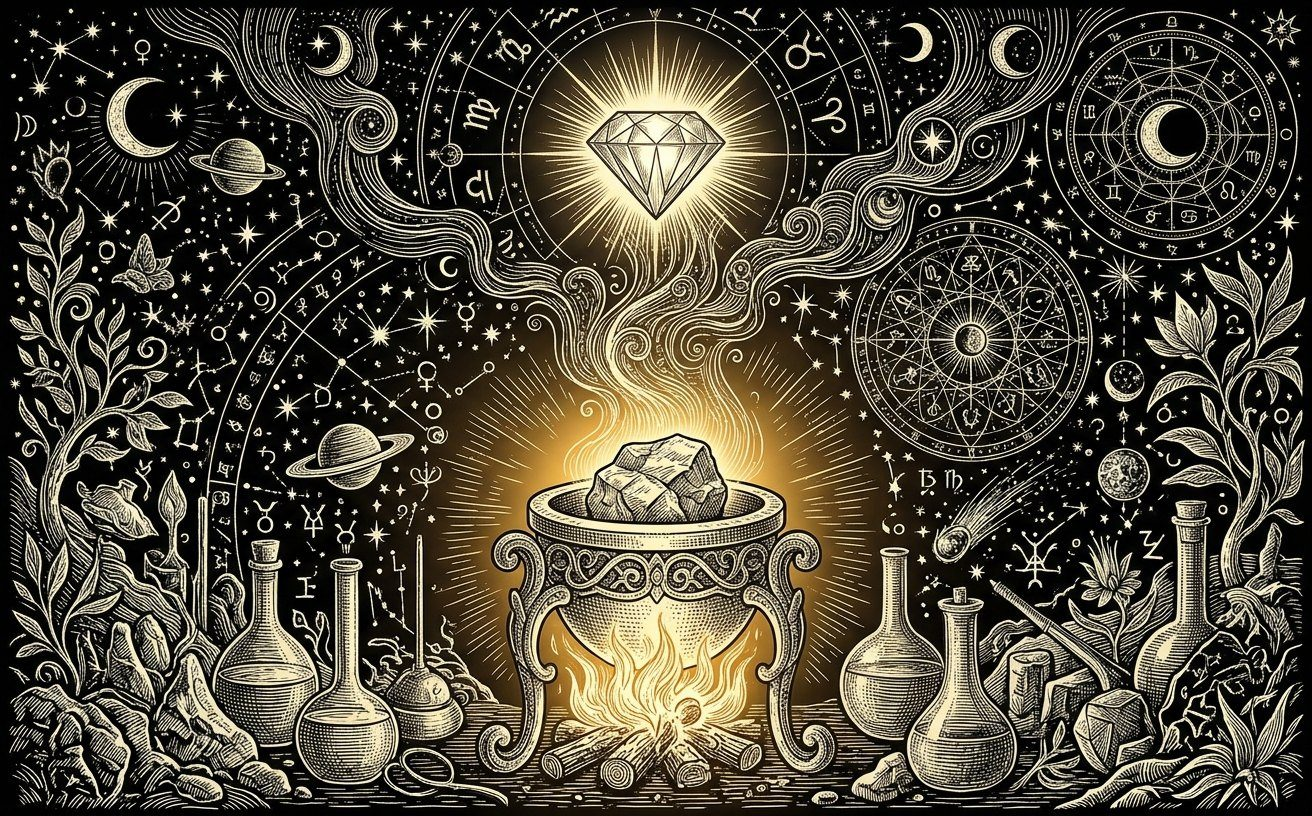
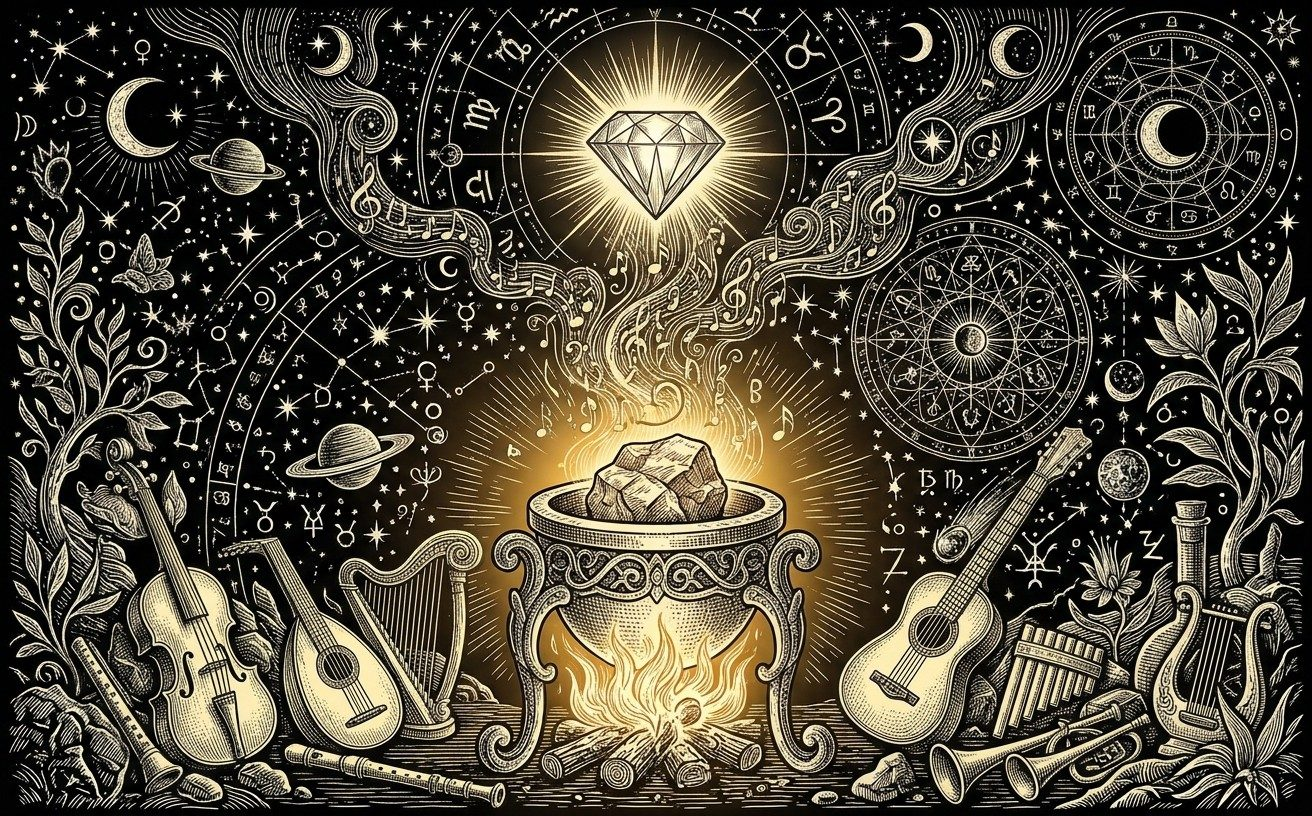
Fix menu at mid widths, new release-ready card image, shorter GK Sessions descriptions
- Mobile menu now opens between 981 and 1120px wide
- Captured moments text updated
- Stop tracking Python cache files

Claude-Session: https://claude.ai/code/session_01HCZU4BLCc4zT5G13vewitE

diff --git a/public/formulated.html b/public/formulated.html
@@ -232,7 +232,7 @@ a[data-yt]{cursor:pointer}
 <div class="bb-gview">
 <div class="bb-frame">
 <div class="bb-gstage">
-<img src="/images/gallery/studio-moment-02.jpg" alt="Studio moment 1" class="bb-gimg">
+<img src="/images/gallery/studio-moment-11.jpg" alt="Studio moment 1" class="bb-gimg">
 
 </div>
 </div>
@@ -250,72 +250,72 @@ a[data-yt]{cursor:pointer}
 <div class="bb-gthumbs" role="list">
 
 <button type="button" class="bb-gth bb-gth-on" aria-label="Show Studio moment 1" aria-current="true" role="listitem">
-<span class="bb-gthimg" style="background-image: url(/images/gallery/studio-moment-02.jpg)"></span>
+<span class="bb-gthimg" style="background-image: url(/images/gallery/studio-moment-11.jpg)"></span>
 
 </button>
 
 <button type="button" class="bb-gth" aria-label="Show Studio moment 2" aria-current="false" role="listitem">
-<span class="bb-gthimg" style="background-image: url(/images/gallery/studio-moment-01.jpg)"></span>
+<span class="bb-gthimg" style="background-image: url(/images/gallery/studio-moment-13.jpg)"></span>
 
 </button>
 
 <button type="button" class="bb-gth" aria-label="Show Studio moment 3" aria-current="false" role="listitem">
-<span class="bb-gthimg" style="background-image: url(/images/gallery/studio-moment-07.jpg)"></span>
+<span class="bb-gthimg" style="background-image: url(/images/gallery/studio-moment-16.jpg)"></span>
 
 </button>
 
 <button type="button" class="bb-gth" aria-label="Show Studio moment 4" aria-current="false" role="listitem">
-<span class="bb-gthimg" style="background-image: url(/images/gallery/studio-moment-09.jpg)"></span>
+<span class="bb-gthimg" style="background-image: url(/images/gallery/studio-moment-01.jpg)"></span>
 
 </button>
 
 <button type="button" class="bb-gth" aria-label="Show Studio moment 5" aria-current="false" role="listitem">
-<span class="bb-gthimg" style="background-image: url(/images/gallery/studio-moment-03.jpg)"></span>
+<span class="bb-gthimg" style="background-image: url(/images/gallery/studio-moment-04.jpg)"></span>
 
 </button>
 
 <button type="button" class="bb-gth" aria-label="Show Studio moment 6" aria-current="false" role="listitem">
-<span class="bb-gthimg" style="background-image: url(/images/gallery/studio-moment-14.jpg)"></span>
-
-</button>
-
-<button type="button" class="bb-gth" aria-label="Show Studio moment 7" aria-current="false" role="listitem">
-<span class="bb-gthimg" style="background-image: url(/images/gallery/studio-moment-05.jpg)"></span>
-
-</button>
-
-<button type="button" class="bb-gth" aria-label="Show Studio moment 8" aria-current="false" role="listitem">
-<span class="bb-gthimg" style="background-image: url(/images/gallery/studio-moment-06.jpg)"></span>
-
-</button>
-
-<button type="button" class="bb-gth" aria-label="Show Studio moment 9" aria-current="false" role="listitem">
 <span class="bb-gthimg" style="background-image: url(/images/gallery/studio-moment-19.jpg)"></span>
 
 </button>
 
-<button type="button" class="bb-gth" aria-label="Show Studio moment 10" aria-current="false" role="listitem">
-<span class="bb-gthimg" style="background-image: url(/images/gallery/studio-moment-15.jpg)"></span>
+<button type="button" class="bb-gth" aria-label="Show Studio moment 7" aria-current="false" role="listitem">
+<span class="bb-gthimg" style="background-image: url(/images/gallery/studio-moment-02.jpg)"></span>
 
 </button>
 
-<button type="button" class="bb-gth" aria-label="Show Studio moment 11" aria-current="false" role="listitem">
+<button type="button" class="bb-gth" aria-label="Show Studio moment 8" aria-current="false" role="listitem">
+<span class="bb-gthimg" style="background-image: url(/images/gallery/studio-moment-18.jpg)"></span>
+
+</button>
+
+<button type="button" class="bb-gth" aria-label="Show Studio moment 9" aria-current="false" role="listitem">
+<span class="bb-gthimg" style="background-image: url(/images/gallery/studio-moment-17.jpg)"></span>
+
+</button>
+
+<button type="button" class="bb-gth" aria-label="Show Studio moment 10" aria-current="false" role="listitem">
 <span class="bb-gthimg" style="background-image: url(/images/gallery/studio-moment-12.jpg)"></span>
 
 </button>
 
+<button type="button" class="bb-gth" aria-label="Show Studio moment 11" aria-current="false" role="listitem">
+<span class="bb-gthimg" style="background-image: url(/images/gallery/studio-moment-14.jpg)"></span>
+
+</button>
+
 <button type="button" class="bb-gth" aria-label="Show Studio moment 12" aria-current="false" role="listitem">
-<span class="bb-gthimg" style="background-image: url(/images/gallery/studio-moment-08.jpg)"></span>
+<span class="bb-gthimg" style="background-image: url(/images/gallery/studio-moment-09.jpg)"></span>
 
 </button>
 
 <button type="button" class="bb-gth" aria-label="Show Studio moment 13" aria-current="false" role="listitem">
-<span class="bb-gthimg" style="background-image: url(/images/gallery/studio-moment-20.jpg)"></span>
+<span class="bb-gthimg" style="background-image: url(/images/gallery/studio-moment-08.jpg)"></span>
 
 </button>
 
 <button type="button" class="bb-gth" aria-label="Show Studio moment 14" aria-current="false" role="listitem">
-<span class="bb-gthimg" style="background-image: url(/images/gallery/studio-moment-11.jpg)"></span>
+<span class="bb-gthimg" style="background-image: url(/images/gallery/studio-moment-07.jpg)"></span>
 
 </button>
 
@@ -325,27 +325,27 @@ a[data-yt]{cursor:pointer}
 </button>
 
 <button type="button" class="bb-gth" aria-label="Show Studio moment 16" aria-current="false" role="listitem">
-<span class="bb-gthimg" style="background-image: url(/images/gallery/studio-moment-18.jpg)"></span>
+<span class="bb-gthimg" style="background-image: url(/images/gallery/studio-moment-06.jpg)"></span>
 
 </button>
 
 <button type="button" class="bb-gth" aria-label="Show Studio moment 17" aria-current="false" role="listitem">
-<span class="bb-gthimg" style="background-image: url(/images/gallery/studio-moment-04.jpg)"></span>
+<span class="bb-gthimg" style="background-image: url(/images/gallery/studio-moment-15.jpg)"></span>
 
 </button>
 
 <button type="button" class="bb-gth" aria-label="Show Studio moment 18" aria-current="false" role="listitem">
-<span class="bb-gthimg" style="background-image: url(/images/gallery/studio-moment-16.jpg)"></span>
+<span class="bb-gthimg" style="background-image: url(/images/gallery/studio-moment-03.jpg)"></span>
 
 </button>
 
 <button type="button" class="bb-gth" aria-label="Show Studio moment 19" aria-current="false" role="listitem">
-<span class="bb-gthimg" style="background-image: url(/images/gallery/studio-moment-17.jpg)"></span>
+<span class="bb-gthimg" style="background-image: url(/images/gallery/studio-moment-20.jpg)"></span>
 
 </button>
 
 <button type="button" class="bb-gth" aria-label="Show Studio moment 20" aria-current="false" role="listitem">
-<span class="bb-gthimg" style="background-image: url(/images/gallery/studio-moment-13.jpg)"></span>
+<span class="bb-gthimg" style="background-image: url(/images/gallery/studio-moment-05.jpg)"></span>
 
 </button>
 
@@ -354,7 +354,7 @@ a[data-yt]{cursor:pointer}
 <div class="bb-jtext">
 <div class="bb-eye">From the studio</div>
 <h2 class="bb-h" style="font-size: 52px">captured moments</h2>
-<p class="bb-body">Action shots from studio sessions and video shoots, caught in the middle of the music. Shown in a new order on every visit.</p>
+<p class="bb-body">Action shots from studio sessions and video shoots, captured in the middle of song rehearsals, live show production and lighting design testing.</p>
 </div>
 </div>
 </div>

diff --git a/design/AIVideos.dc.html b/design/AIVideos.dc.html
@@ -42,7 +42,7 @@ a{color:#F2EDE0}a:hover{color:#FFFFFF}
 .bb-cols3{display:grid;grid-template-columns:repeat(3,minmax(0,1fr));gap:28px}
 .bb-steps{display:grid;grid-template-columns:repeat(3,minmax(0,1fr));gap:28px;counter-reset:step}
 .bb-b1:focus-visible,.bb-b2:focus-visible,.bb-menu:focus-visible,a:focus-visible{outline:2px solid #F2EDE0;outline-offset:3px}
-@media (min-width:981px){.bb-mobile{display:none}}
+@media (min-width:1121px){.bb-mobile{display:none}}
 @media (max-width:980px){.bb-navlinks{display:none}.bb-menu,.bb-menu.bb-b2{display:inline-flex}.bb-hero{grid-template-columns:minmax(0,1fr)}.bb-cols3{grid-template-columns:repeat(2,minmax(0,1fr))}.bb-steps{grid-template-columns:minmax(0,1fr)}}
 @media (max-width:560px){.bb-cols3{grid-template-columns:minmax(0,1fr)}.bb-big{font-size:60px !important}.bb-cta{display:none !important}.bb-logo{height:60px !important}}
 
@@ -213,7 +213,7 @@ class Component extends DCLogic {
   constructor(props) { super(props); this.state = { menuOpen: false, showTop: false }; if (typeof window !== 'undefined') { try { if ('scrollRestoration' in history) history.scrollRestoration = 'manual'; if (!location.hash) window.scrollTo(0, 0); } catch (e) {} } var self = this; if (typeof window !== 'undefined') { window.addEventListener('scroll', function () { var de = document.documentElement, y = window.scrollY || de.scrollTop || 0, v = y > 200 && (y + window.innerHeight) >= (de.scrollHeight - 320); if (v !== self.state.showTop) self.setState({ showTop: v }); }, { passive: true }); } }
   renderVals() {
     var self = this, s = this.state;
-    var list = [["Always", "GK Sessions", "bf798a987b7e96b681ba8edf93862b42", "https://youtu.be/Flu9zKHt-DQ", "An uplifting spiritual song about divine light, faith and grace. A robed figure and a circle of followers stand before a vast wheel of glowing sacred geometry: a vision of the eternal light behind creation.", "Alex Brodsky: vocals, guitars, keyboards, piano, synths; writing, production and mix · Glenn Korgaard: drums"], ["Day Dream", "GK Sessions", "63392bb55edd1079aa817e0d52657fb1", "https://youtu.be/drznpJstSjk", "A dreamy, meditative song about lucid daydreaming, mindfulness and expanded consciousness, drifting through a surreal dreamscape of pink clouds, a giant moon and mirror-still water.", "Alex Brodsky: vocals, guitars, keyboards, piano, synths; writing, production and mix · Glenn Korgaard: drums"], ["Move On", "GK Sessions", "4ff7ecb4a72a07639a530c8703d9024d", "https://youtu.be/w34VcjetXDQ", "An inspirational song about overcoming fear and finding hope on the road ahead. A futuristic vessel crosses a vast alien landscape toward a pillar of golden light.", "Alex Brodsky: vocals, guitars, keyboards, piano, synths; writing, production and mix · Glenn Korgaard: drums"], ["Rain", "GK Sessions", "36a2c47c121b043b03587e3d0d56b8cf", "https://youtu.be/UJ8O2pPknD4", "A song of hope about drought, wildfire smoke and the prayer for rain. In an old-world village under a golden haze, a woman releases a white dove as a sign that relief is coming.", "Alex Brodsky: vocals, guitars, keyboards, piano, synths; writing, production and mix · Glenn Korgaard: drums"], ["Steady State", "Stellium Scale", "a5363ea2ff5682d2c31c931aa1b68eff", "https://youtu.be/YWgS60rUyOg", "The physical world taking shape from the constant presence of eternity. The video travels down an endless lattice of light toward the source at its centre.", "Alex Brodsky: vocals, guitars, keyboards, synths, drum programming; writing, production and mix"]];
+    var list = [["Always", "GK Sessions", "bf798a987b7e96b681ba8edf93862b42", "https://youtu.be/Flu9zKHt-DQ", "An uplifting spiritual song about divine light, faith and grace.", "Alex Brodsky: vocals, guitars, keyboards, piano, synths; writing, production and mix · Glenn Korgaard: drums"], ["Day Dream", "GK Sessions", "63392bb55edd1079aa817e0d52657fb1", "https://youtu.be/drznpJstSjk", "A dreamy, meditative song about lucid daydreaming, mindfulness and expanded consciousness.", "Alex Brodsky: vocals, guitars, keyboards, piano, synths; writing, production and mix · Glenn Korgaard: drums"], ["Move On", "GK Sessions", "4ff7ecb4a72a07639a530c8703d9024d", "https://youtu.be/w34VcjetXDQ", "An inspirational song about overcoming fear and finding hope on the road ahead.", "Alex Brodsky: vocals, guitars, keyboards, piano, synths; writing, production and mix · Glenn Korgaard: drums"], ["Rain", "GK Sessions", "36a2c47c121b043b03587e3d0d56b8cf", "https://youtu.be/UJ8O2pPknD4", "A song of hope about drought, wildfire smoke and the prayer for rain.", "Alex Brodsky: vocals, guitars, keyboards, piano, synths; writing, production and mix · Glenn Korgaard: drums"], ["Steady State", "Stellium Scale", "a5363ea2ff5682d2c31c931aa1b68eff", "https://youtu.be/YWgS60rUyOg", "The physical world taking shape from the constant presence of eternity. The video travels down an endless lattice of light toward the source at its centre.", "Alex Brodsky: vocals, guitars, keyboards, synths, drum programming; writing, production and mix"]];
     var videos = list.map(function (v, i) { return { url: v[3], num: '0' + (i + 1), title: v[0], artist: v[1], desc: v[4], credits: v[5], bg: 'center / cover no-repeat url(/_blob/' + v[2] + ')' }; });
     return {
       videos: videos,

diff --git a/public/animated.html b/public/animated.html
@@ -52,7 +52,7 @@ a{color:#F2EDE0}a:hover{color:#FFFFFF}
 .bb-cols3{display:grid;grid-template-columns:repeat(3,minmax(0,1fr));gap:28px}
 .bb-steps{display:grid;grid-template-columns:repeat(3,minmax(0,1fr));gap:28px;counter-reset:step}
 .bb-b1:focus-visible,.bb-b2:focus-visible,.bb-menu:focus-visible,a:focus-visible{outline:2px solid #F2EDE0;outline-offset:3px}
-@media (min-width:981px){.bb-mobile{display:none}}
+@media (min-width:1121px){.bb-mobile{display:none}}
 @media (max-width:980px){.bb-navlinks{display:none}.bb-menu,.bb-menu.bb-b2{display:inline-flex}.bb-hero{grid-template-columns:minmax(0,1fr)}.bb-cols3{grid-template-columns:repeat(2,minmax(0,1fr))}.bb-steps{grid-template-columns:minmax(0,1fr)}}
 @media (max-width:560px){.bb-cols3{grid-template-columns:minmax(0,1fr)}.bb-big{font-size:60px !important}.bb-cta{display:none !important}.bb-logo{height:60px !important}}
 
@@ -179,7 +179,7 @@ a[data-yt]{cursor:pointer}
 <div class="bb-vtext">
 <div class="bb-mono" style="font-size: 13px; color: #A9A6A6">01</div>
 <h2 class="bb-h bb-ahead bb-ah-md"><span class="bb-aname">GK Sessions</span><span class="bb-stitle">Always</span></h2>
-<p style="margin: 0; color: #C9C5BC">An uplifting spiritual song about divine light, faith and grace. A robed figure and a circle of followers stand before a vast wheel of glowing sacred geometry: a vision of the eternal light behind creation.</p>
+<p style="margin: 0; color: #C9C5BC">An uplifting spiritual song about divine light, faith and grace.</p>
 <p style="margin: 0; font-size: 14px; color: #8C8985; line-height: 1.5">Alex Brodsky: vocals, guitars, keyboards, piano, synths; writing, production and mix · Glenn Korgaard: drums</p>
 <div style="display: flex; gap: 14px; flex-wrap: wrap; align-items: center"><a href="https://youtu.be/Flu9zKHt-DQ" target="_blank" rel="noopener" class="bb-b1">Watch on YouTube ↗</a></div>
 </div>
@@ -194,7 +194,7 @@ a[data-yt]{cursor:pointer}
 <div class="bb-vtext">
 <div class="bb-mono" style="font-size: 13px; color: #A9A6A6">02</div>
 <h2 class="bb-h bb-ahead bb-ah-md"><span class="bb-aname">GK Sessions</span><span class="bb-stitle">Day Dream</span></h2>
-<p style="margin: 0; color: #C9C5BC">A dreamy, meditative song about lucid daydreaming, mindfulness and expanded consciousness, drifting through a surreal dreamscape of pink clouds, a giant moon and mirror-still water.</p>
+<p style="margin: 0; color: #C9C5BC">A dreamy, meditative song about lucid daydreaming, mindfulness and expanded consciousness.</p>
 <p style="margin: 0; font-size: 14px; color: #8C8985; line-height: 1.5">Alex Brodsky: vocals, guitars, keyboards, piano, synths; writing, production and mix · Glenn Korgaard: drums</p>
 <div style="display: flex; gap: 14px; flex-wrap: wrap; align-items: center"><a href="https://youtu.be/drznpJstSjk" target="_blank" rel="noopener" class="bb-b1">Watch on YouTube ↗</a></div>
 </div>
@@ -209,7 +209,7 @@ a[data-yt]{cursor:pointer}
 <div class="bb-vtext">
 <div class="bb-mono" style="font-size: 13px; color: #A9A6A6">03</div>
 <h2 class="bb-h bb-ahead bb-ah-md"><span class="bb-aname">GK Sessions</span><span class="bb-stitle">Move On</span></h2>
-<p style="margin: 0; color: #C9C5BC">An inspirational song about overcoming fear and finding hope on the road ahead. A futuristic vessel crosses a vast alien landscape toward a pillar of golden light.</p>
+<p style="margin: 0; color: #C9C5BC">An inspirational song about overcoming fear and finding hope on the road ahead.</p>
 <p style="margin: 0; font-size: 14px; color: #8C8985; line-height: 1.5">Alex Brodsky: vocals, guitars, keyboards, piano, synths; writing, production and mix · Glenn Korgaard: drums</p>
 <div style="display: flex; gap: 14px; flex-wrap: wrap; align-items: center"><a href="https://youtu.be/w34VcjetXDQ" target="_blank" rel="noopener" class="bb-b1">Watch on YouTube ↗</a></div>
 </div>
@@ -224,7 +224,7 @@ a[data-yt]{cursor:pointer}
 <div class="bb-vtext">
 <div class="bb-mono" style="font-size: 13px; color: #A9A6A6">04</div>
 <h2 class="bb-h bb-ahead bb-ah-md"><span class="bb-aname">GK Sessions</span><span class="bb-stitle">Rain</span></h2>
-<p style="margin: 0; color: #C9C5BC">A song of hope about drought, wildfire smoke and the prayer for rain. In an old-world village under a golden haze, a woman releases a white dove as a sign that relief is coming.</p>
+<p style="margin: 0; color: #C9C5BC">A song of hope about drought, wildfire smoke and the prayer for rain.</p>
 <p style="margin: 0; font-size: 14px; color: #8C8985; line-height: 1.5">Alex Brodsky: vocals, guitars, keyboards, piano, synths; writing, production and mix · Glenn Korgaard: drums</p>
 <div style="display: flex; gap: 14px; flex-wrap: wrap; align-items: center"><a href="https://youtu.be/UJ8O2pPknD4" target="_blank" rel="noopener" class="bb-b1">Watch on YouTube ↗</a></div>
 </div>

diff --git a/design/About.dc.html b/design/About.dc.html
@@ -185,7 +185,7 @@ html{scroll-behavior:smooth}
 <li class="bb-card2"><span class="bb-c2img" style="background-image: url(/_blob/879c08232bfd3dd8d5ad57b4534787a9)" aria-hidden="true"></span><span class="bb-mono bb-c2from">lyric or riff →</span><span class="bb-c2to">co-written song</span><span class="bb-body">Two creative threads woven together into one complete song.</span></li>
 <li class="bb-card2"><span class="bb-c2img" style="background-image: url(/_blob/bd04e718480af49f03769616c9a08b68)" aria-hidden="true"></span><span class="bb-mono bb-c2from">finished song →</span><span class="bb-c2to">animated music video</span><span class="bb-body">Music transformed into a visual world, scene by scene and in time with the beat.</span></li>
 <li class="bb-card2"><span class="bb-c2img" style="background-image: url(/_blob/c77ef405268706f9a383613ce30b12d5)" aria-hidden="true"></span><span class="bb-mono bb-c2from">a great jam →</span><span class="bb-c2to">filmed live session</span><span class="bb-body">The fire of a live moment, captured on camera and kept in its true sound.</span></li>
-<li class="bb-card2"><span class="bb-c2img" style="background-image: url(/_blob/522f67220086766039d3312f5138aef5)" aria-hidden="true"></span><span class="bb-mono bb-c2from">rough demo →</span><span class="bb-c2to">release-ready track</span><span class="bb-body">Raw material refined through recording, production and mixing into a finished track.</span></li>
+<li class="bb-card2"><span class="bb-c2img" style="background-image: url(/_blob/6575b734ee2267be666cc029a53f75d8)" aria-hidden="true"></span><span class="bb-mono bb-c2from">rough demo →</span><span class="bb-c2to">release-ready track</span><span class="bb-body">Raw material refined through recording, production and mixing into a finished track.</span></li>
 <li class="bb-card2 bb-card2-cta"><span class="bb-c2img" style="background-image: url(/_blob/3212aaac7f1d7abeb9f2349c5e4915b8)" aria-hidden="true"></span><span class="bb-mono bb-c2from">an open door →</span><span class="bb-c2to">something else in mind?</span><span class="bb-body">Every project follows its own path. Tell us where you want to take yours.</span><a href="Connect.dc.html" class="bb-link">Start a conversation →</a></li>
 </ul>
 <p style="margin: 0"><a href="Collabs.dc.html" class="bb-link">See what we have made with others →</a></p>
@@ -242,7 +242,7 @@ html{scroll-behavior:smooth}
 <div class="bb-jtext">
 <div class="bb-eye">From the studio</div>
 <h2 class="bb-h" style="font-size: 52px">captured moments</h2>
-<p class="bb-body">Action shots from studio sessions and video shoots, caught in the middle of the music. Shown in a new order on every visit.</p>
+<p class="bb-body">Action shots from studio sessions and video shoots, captured in the middle of song rehearsals, live show production and lighting design testing.</p>
 </div>
 </div>
 </div>

diff --git a/design/Main.dc.html b/design/Main.dc.html
@@ -43,7 +43,7 @@ a{color:#F2EDE0}a:hover{color:#FFFFFF}
 .bb-row{display:grid;grid-template-columns:150px minmax(0,1fr) auto;gap:20px;align-items:center;padding:18px 0;border-bottom:1px solid #3A3936;text-decoration:none;color:#F2EDE0}
 .bb-row:hover{background:#151514}
 .bb-b1:focus-visible,.bb-b2:focus-visible,.bb-b3:focus-visible,.bb-menu:focus-visible,a:focus-visible{outline:2px solid #F2EDE0;outline-offset:3px}
-@media (min-width:981px){.bb-mobile{display:none}}
+@media (min-width:1121px){.bb-mobile{display:none}}
 @media (max-width:980px){.bb-navlinks{display:none}.bb-menu,.bb-menu.bb-b2{display:inline-flex}.bb-hero,.bb-cols2{grid-template-columns:minmax(0,1fr)}.bb-cols3{grid-template-columns:repeat(2,minmax(0,1fr))}}
 @media (max-width:560px){.bb-cols3{grid-template-columns:minmax(0,1fr)}.bb-big{font-size:56px !important}.bb-cta{display:none !important}.bb-logo{height:60px !important}.bb-row{grid-template-columns:minmax(0,1fr) auto}.bb-row-date{grid-column:1 / -1}}
 

diff --git a/public/index.html b/public/index.html
@@ -53,7 +53,7 @@ a{color:#F2EDE0}a:hover{color:#FFFFFF}
 .bb-row{display:grid;grid-template-columns:150px minmax(0,1fr) auto;gap:20px;align-items:center;padding:18px 0;border-bottom:1px solid #3A3936;text-decoration:none;color:#F2EDE0}
 .bb-row:hover{background:#151514}
 .bb-b1:focus-visible,.bb-b2:focus-visible,.bb-b3:focus-visible,.bb-menu:focus-visible,a:focus-visible{outline:2px solid #F2EDE0;outline-offset:3px}
-@media (min-width:981px){.bb-mobile{display:none}}
+@media (min-width:1121px){.bb-mobile{display:none}}
 @media (max-width:980px){.bb-navlinks{display:none}.bb-menu,.bb-menu.bb-b2{display:inline-flex}.bb-hero,.bb-cols2{grid-template-columns:minmax(0,1fr)}.bb-cols3{grid-template-columns:repeat(2,minmax(0,1fr))}}
 @media (max-width:560px){.bb-cols3{grid-template-columns:minmax(0,1fr)}.bb-big{font-size:56px !important}.bb-cta{display:none !important}.bb-logo{height:60px !important}.bb-row{grid-template-columns:minmax(0,1fr) auto}.bb-row-date{grid-column:1 / -1}}
 

diff --git a/design/Loopers.dc.html b/design/Loopers.dc.html
@@ -44,7 +44,7 @@ a{color:#F2EDE0}a:hover{color:#FFFFFF}
 .bb-row{display:grid;grid-template-columns:150px minmax(0,1fr) auto auto;gap:20px;align-items:center;padding:18px 0;border-bottom:1px solid #3A3936;text-decoration:none;color:#F2EDE0}
 .bb-row:hover{background:#151514}
 .bb-b1:focus-visible,.bb-b2:focus-visible,.bb-b3:focus-visible,.bb-menu:focus-visible,a:focus-visible{outline:2px solid #F2EDE0;outline-offset:3px}
-@media (min-width:981px){.bb-mobile{display:none}}
+@media (min-width:1121px){.bb-mobile{display:none}}
 @media (max-width:980px){.bb-navlinks{display:none}.bb-menu,.bb-menu.bb-b2{display:inline-flex}.bb-hero{grid-template-columns:minmax(0,1fr)}.bb-cols3{grid-template-columns:minmax(0,1fr)}}
 @media (max-width:560px){.bb-big{font-size:60px !important}.bb-cta{display:none !important}.bb-logo{height:60px !important}.bb-row{grid-template-columns:minmax(0,1fr) auto}.bb-row-date,.bb-row-lineup{grid-column:1 / -1}}
 

diff --git a/public/improvised.html b/public/improvised.html
@@ -54,7 +54,7 @@ a{color:#F2EDE0}a:hover{color:#FFFFFF}
 .bb-row{display:grid;grid-template-columns:150px minmax(0,1fr) auto auto;gap:20px;align-items:center;padding:18px 0;border-bottom:1px solid #3A3936;text-decoration:none;color:#F2EDE0}
 .bb-row:hover{background:#151514}
 .bb-b1:focus-visible,.bb-b2:focus-visible,.bb-b3:focus-visible,.bb-menu:focus-visible,a:focus-visible{outline:2px solid #F2EDE0;outline-offset:3px}
-@media (min-width:981px){.bb-mobile{display:none}}
+@media (min-width:1121px){.bb-mobile{display:none}}
 @media (max-width:980px){.bb-navlinks{display:none}.bb-menu,.bb-menu.bb-b2{display:inline-flex}.bb-hero{grid-template-columns:minmax(0,1fr)}.bb-cols3{grid-template-columns:minmax(0,1fr)}}
 @media (max-width:560px){.bb-big{font-size:60px !important}.bb-cta{display:none !important}.bb-logo{height:60px !important}.bb-row{grid-template-columns:minmax(0,1fr) auto}.bb-row-date,.bb-row-lineup{grid-column:1 / -1}}
 

diff --git a/design/Connect.dc.html b/design/Connect.dc.html
@@ -44,7 +44,7 @@ a{color:#F2EDE0}a:hover{color:#FFFFFF}
 .bb-full{grid-column:1 / -1}
 .bb-split{display:grid;grid-template-columns:minmax(0,7fr) minmax(0,4fr);gap:64px;align-items:start}
 .bb-b1:focus-visible,.bb-b2:focus-visible,.bb-b3:focus-visible,.bb-menu:focus-visible,a:focus-visible{outline:2px solid #F2EDE0;outline-offset:3px}
-@media (min-width:981px){.bb-mobile{display:none}}
+@media (min-width:1121px){.bb-mobile{display:none}}
 @media (max-width:980px){.bb-navlinks{display:none}.bb-menu,.bb-menu.bb-b2{display:inline-flex}.bb-split{grid-template-columns:minmax(0,1fr)}}
 @media (max-width:560px){.bb-form{grid-template-columns:minmax(0,1fr)}.bb-pt{font-size:68px !important}.bb-logo{height:60px !important}}
 

diff --git a/public/404.html b/public/404.html
@@ -55,7 +55,7 @@ a{color:#F2EDE0}a:hover{color:#FFFFFF}
 .bb-full{grid-column:1 / -1}
 .bb-split{display:grid;grid-template-columns:minmax(0,7fr) minmax(0,4fr);gap:64px;align-items:start}
 .bb-b1:focus-visible,.bb-b2:focus-visible,.bb-b3:focus-visible,.bb-menu:focus-visible,a:focus-visible{outline:2px solid #F2EDE0;outline-offset:3px}
-@media (min-width:981px){.bb-mobile{display:none}}
+@media (min-width:1121px){.bb-mobile{display:none}}
 @media (max-width:980px){.bb-navlinks{display:none}.bb-menu,.bb-menu.bb-b2{display:inline-flex}.bb-split{grid-template-columns:minmax(0,1fr)}}
 @media (max-width:560px){.bb-form{grid-template-columns:minmax(0,1fr)}.bb-pt{font-size:68px !important}.bb-logo{height:60px !important}}
 

diff --git a/public/connected.html b/public/connected.html
@@ -54,7 +54,7 @@ a{color:#F2EDE0}a:hover{color:#FFFFFF}
 .bb-full{grid-column:1 / -1}
 .bb-split{display:grid;grid-template-columns:minmax(0,7fr) minmax(0,4fr);gap:64px;align-items:start}
 .bb-b1:focus-visible,.bb-b2:focus-visible,.bb-b3:focus-visible,.bb-menu:focus-visible,a:focus-visible{outline:2px solid #F2EDE0;outline-offset:3px}
-@media (min-width:981px){.bb-mobile{display:none}}
+@media (min-width:1121px){.bb-mobile{display:none}}
 @media (max-width:980px){.bb-navlinks{display:none}.bb-menu,.bb-menu.bb-b2{display:inline-flex}.bb-split{grid-template-columns:minmax(0,1fr)}}
 @media (max-width:560px){.bb-form{grid-template-columns:minmax(0,1fr)}.bb-pt{font-size:68px !important}.bb-logo{height:60px !important}}
 

diff --git a/public/thank-you.html b/public/thank-you.html
@@ -54,7 +54,7 @@ a{color:#F2EDE0}a:hover{color:#FFFFFF}
 .bb-full{grid-column:1 / -1}
 .bb-split{display:grid;grid-template-columns:minmax(0,7fr) minmax(0,4fr);gap:64px;align-items:start}
 .bb-b1:focus-visible,.bb-b2:focus-visible,.bb-b3:focus-visible,.bb-menu:focus-visible,a:focus-visible{outline:2px solid #F2EDE0;outline-offset:3px}
-@media (min-width:981px){.bb-mobile{display:none}}
+@media (min-width:1121px){.bb-mobile{display:none}}
 @media (max-width:980px){.bb-navlinks{display:none}.bb-menu,.bb-menu.bb-b2{display:inline-flex}.bb-split{grid-template-columns:minmax(0,1fr)}}
 @media (max-width:560px){.bb-form{grid-template-columns:minmax(0,1fr)}.bb-pt{font-size:68px !important}.bb-logo{height:60px !important}}
 
